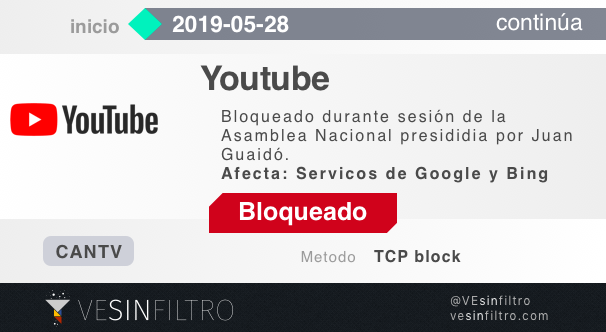
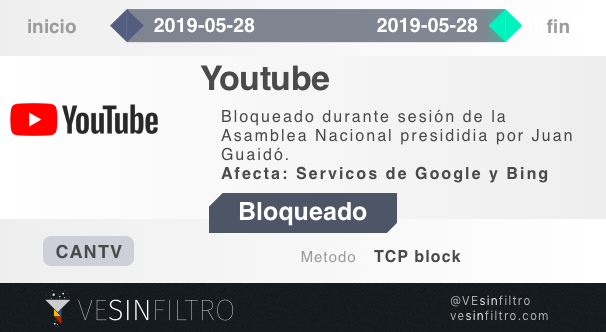
eded 05-28

Changed region(s): [[0.0297, 0.0, 1.0, 0.1506], [0.3267, 0.5723, 0.6535, 0.7229]]

diff --git a/_noticias/2019-05-28-alerta.md b/_noticias/2019-05-28-alerta.md
@@ -13,13 +13,13 @@ image: /res/post_img/alerta-2019-05-28.png
 
 Durante una sesión de la Asamblea Nacional de Venezuela el 28 de mayo de 2019 presidida Por Juan Guaidó Youtube ha sido bloqueado por CANTV, el más importante proveedor de internet de Venezuela y empresa del estado, justo en el momento que Guaidó comenzaba declaraciones.
 
-Este bloqueo comenzó a las 12:08:19 pm (hora de Venezuela, VET), el incidente está en desarrollo
+Este bloqueo comenzó a las 12:08:19 pm (hora de Venezuela, VET) y culminó a las 13:52:53 pm, durando 1hora 44 minutos.
 
 Venezuela sufre una [crisis política sobre quién debe ocupar legítimamente la presidencia](https://en.wikipedia.org/wiki/2019_Venezuelan_presidential_crisis): Nicolas Maduro (reelecto en un proceso electoral cuestionado) o Juan Guaidó (Presidente de la Asamblea Nacional y considerado Presidente Encargado por quienes desconocen la reelección de Maduro).
 
 Desde Enero de 2019 se la crisis ha motivado una [fuerte escalada en la censura y control de internet en Venezuela mediante numerosos bloqueos nuevos](https://vesinfiltro.com/noticias/venezuela_bloquea_las_noticias-2019-05/). Esta censura incluye bloqueos indefinidos especialmente a medios y bloqueos tácticos hacia plataformas de streaming y de redes sociales. Los bloqueos tácticos con frecuencia son usados para silenciar la transmisión en vivo de declaraciones y actos públicos de Juan Guaidó, se ha bloqueado Youtube en eventos similares con gremios.
 
-La implementación del **bloqueo TCP** a **Youtube** afecta múltiples servicios de Google incluyendo Google dsadsdaDrive, Google Calendar, Google Meet, Google Chat entre otros. Afecta también el sitio del buscador Microsoft Bing,sdasdad :::: estimamos que el bloqueo de Bing es accidental por la proximidad de los rangos de IP.
+La implementación del **bloqueo TCP** a **Youtube** afecta múltiples servicios de Google incluyendo Google dsadsdaDrive, Google Calendar, Google Meet, Google Chat entre otros. Afecta también el sitio del buscador Microsoft Bing, estimamos que el bloqueo de Bing es accidental por la proximidad de los rangos de IP.
 
 ## Recomendaciones a usuarios de internet en Venezuela
 
@@ -34,6 +34,3 @@ siguientes herramientas ante la posibilidad de que alguna sea bloqueada.
 -   Tor Browser [https://torproject.org](https://torproject.org)
 
     ![](/res/img/tecnicas_evadir_bloqueos.png)
-
-
-(actualizando)
